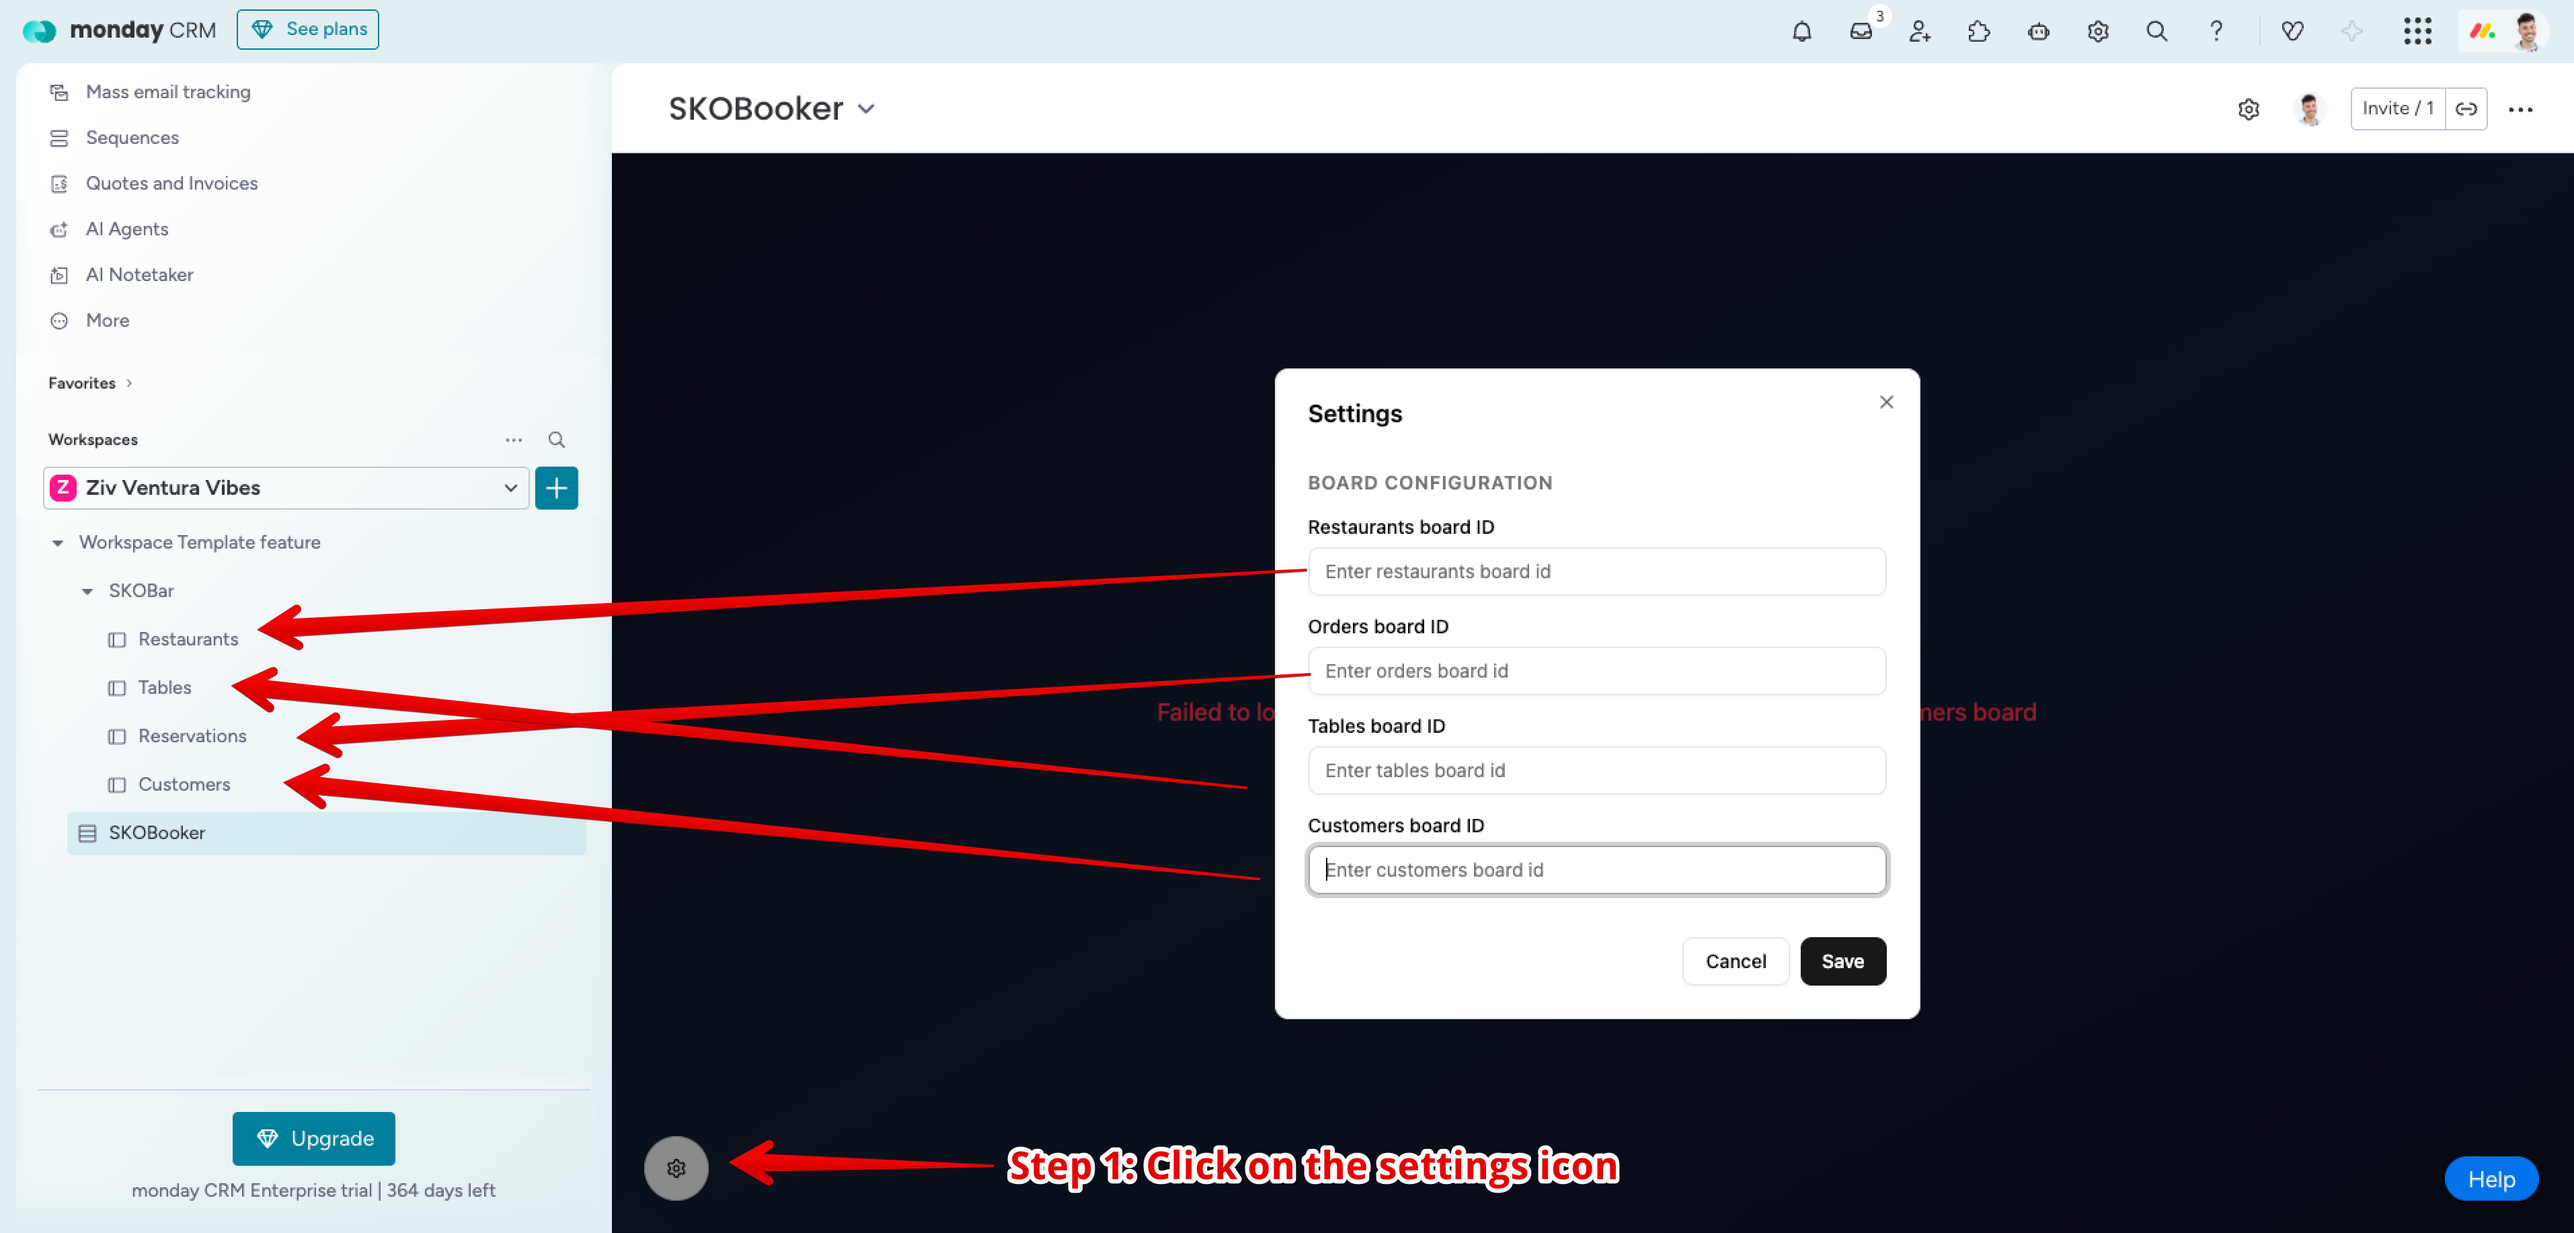
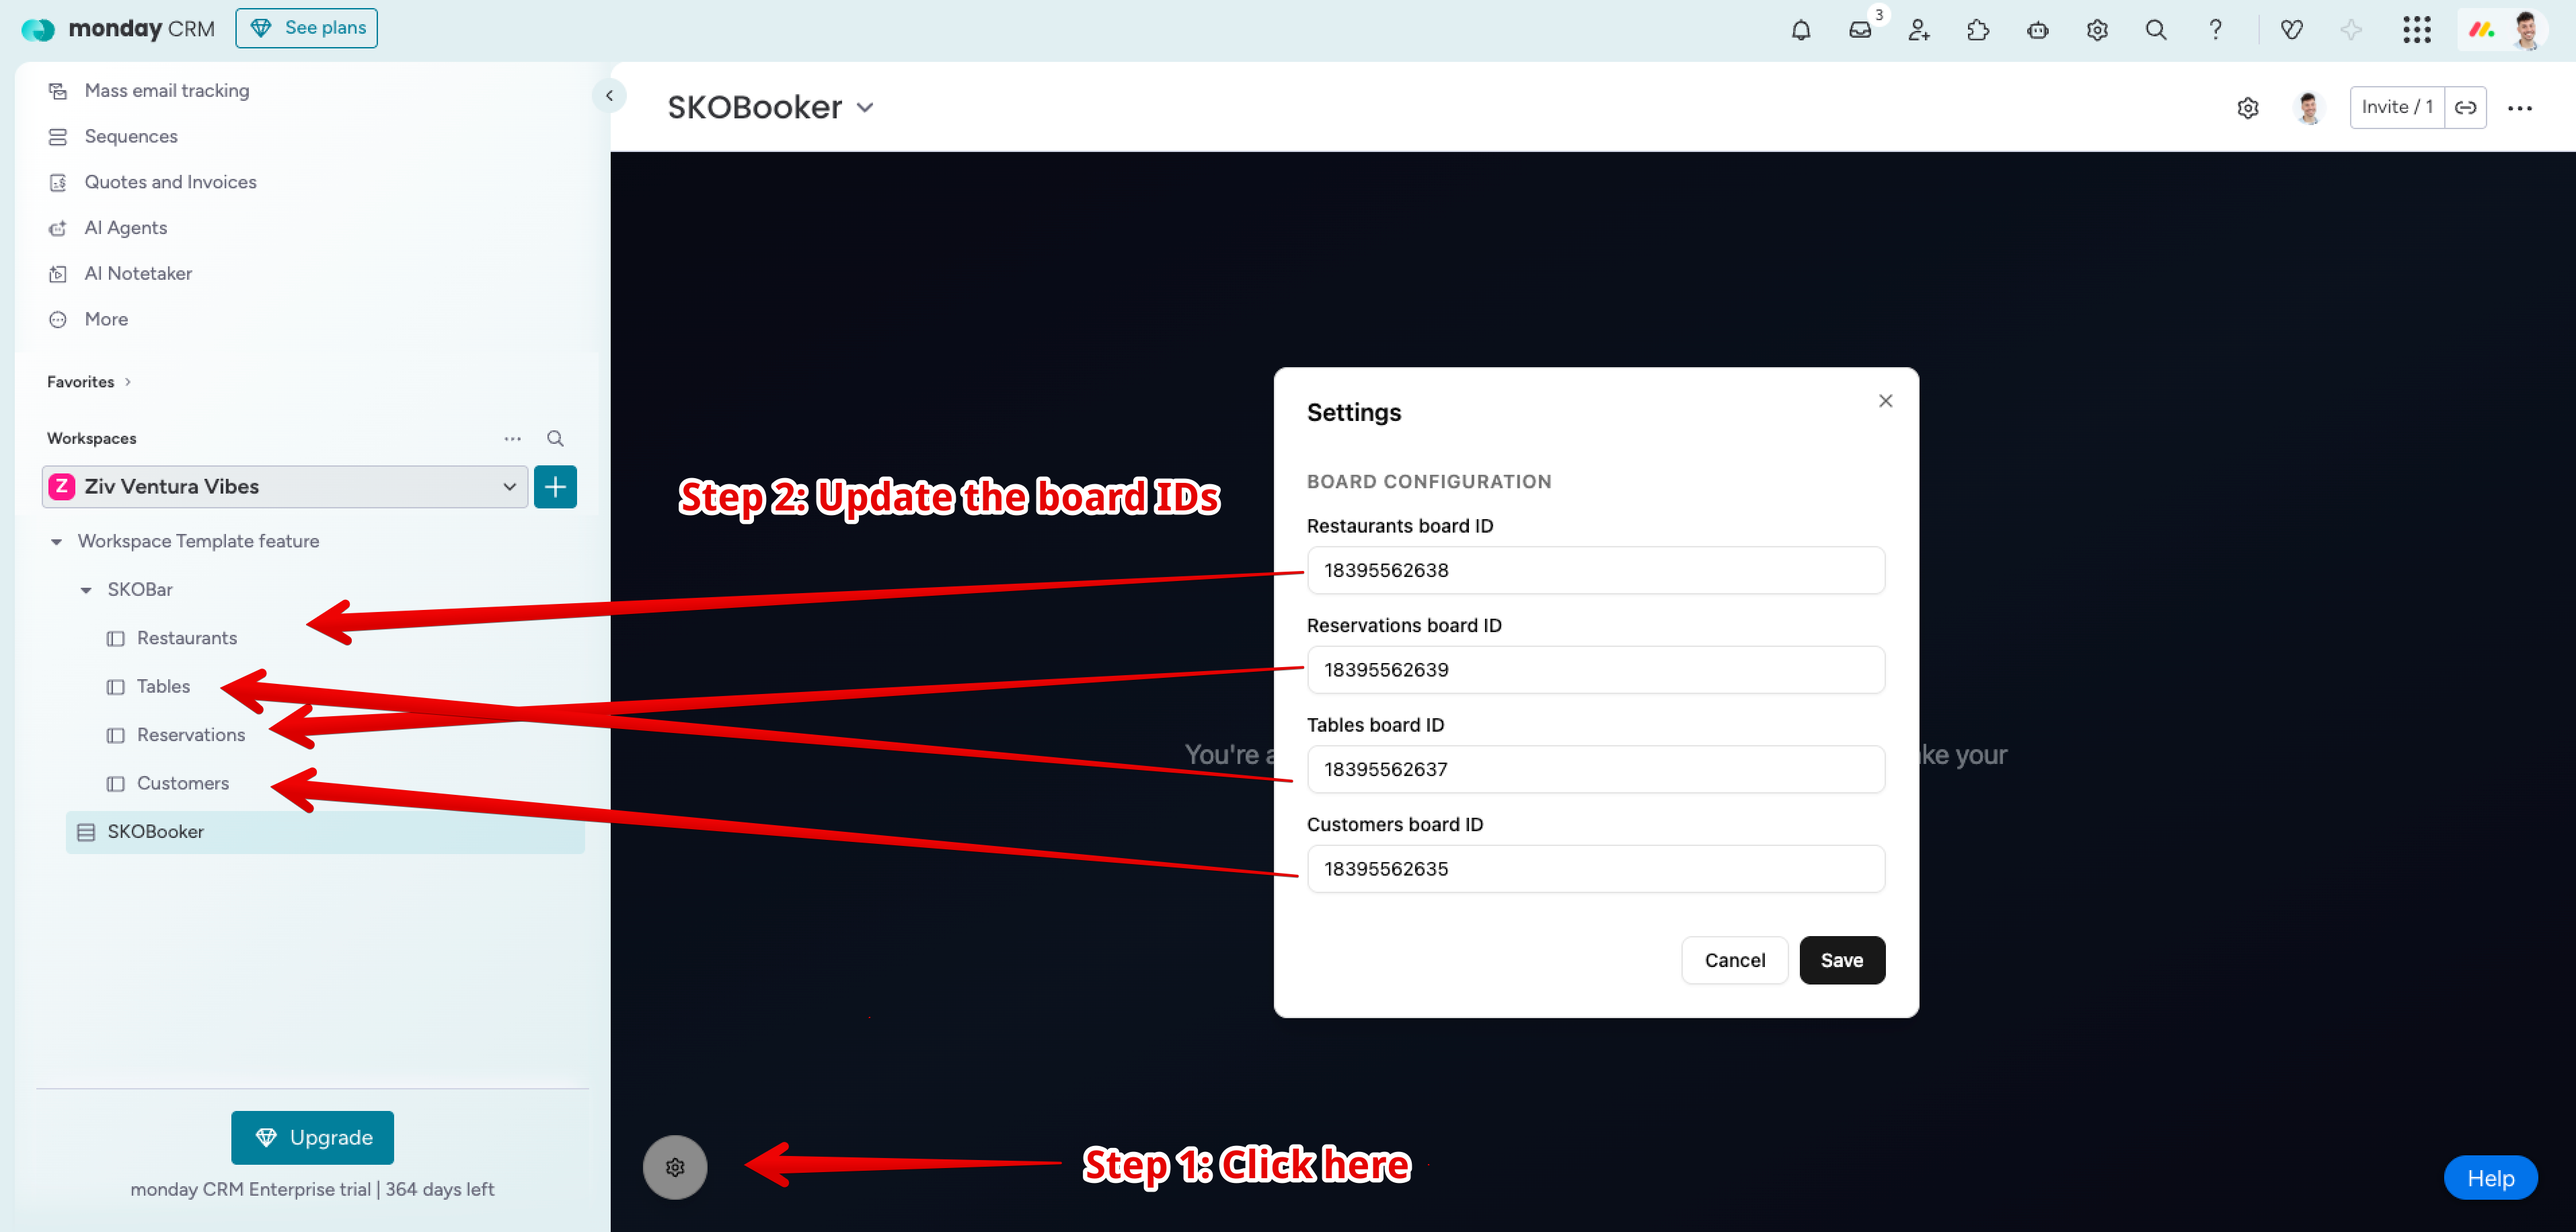
feat: initial commit

diff --git a/src/stores/system-store.ts b/src/stores/system-store.ts
@@ -3,7 +3,7 @@ import { persist } from 'zustand/middleware';
 
 export interface SystemConfig {
   restaurantsBoardId: string;
-  ordersBoardId: string;
+  reservationsBoardId: string;
   tablesBoardId: string;
   customersBoardId: string;
   [key: string]: string;
@@ -17,7 +17,7 @@ interface SystemStore {
 
 const defaultConfig: SystemConfig = {
   restaurantsBoardId: '',
-  ordersBoardId: '',
+  reservationsBoardId: '',
   tablesBoardId: '',
   customersBoardId: '',
 };

diff --git a/src/stores/boards-store.ts b/src/stores/boards-store.ts
@@ -25,7 +25,7 @@ export interface Board {
 
 export interface BoardsData {
   restaurants: Board | null;
-  orders: Board | null;
+  reservations: Board | null;
   tables: Board | null;
   customers: Board | null;
 }
@@ -42,7 +42,7 @@ interface BoardsStore {
 
 const defaultBoards: BoardsData = {
   restaurants: null,
-  orders: null,
+  reservations: null,
   tables: null,
   customers: null,
 };

diff --git a/src/hooks/useBoardsLoader.ts b/src/hooks/useBoardsLoader.ts
@@ -17,7 +17,7 @@ interface BoardSetting {
 
 const boardKeyMap: Record<string, keyof BoardsData> = {
   restaurantsBoardId: 'restaurants',
-  ordersBoardId: 'orders',
+  reservationsBoardId: 'reservations',
   tablesBoardId: 'tables',
   customersBoardId: 'customers',
 };
